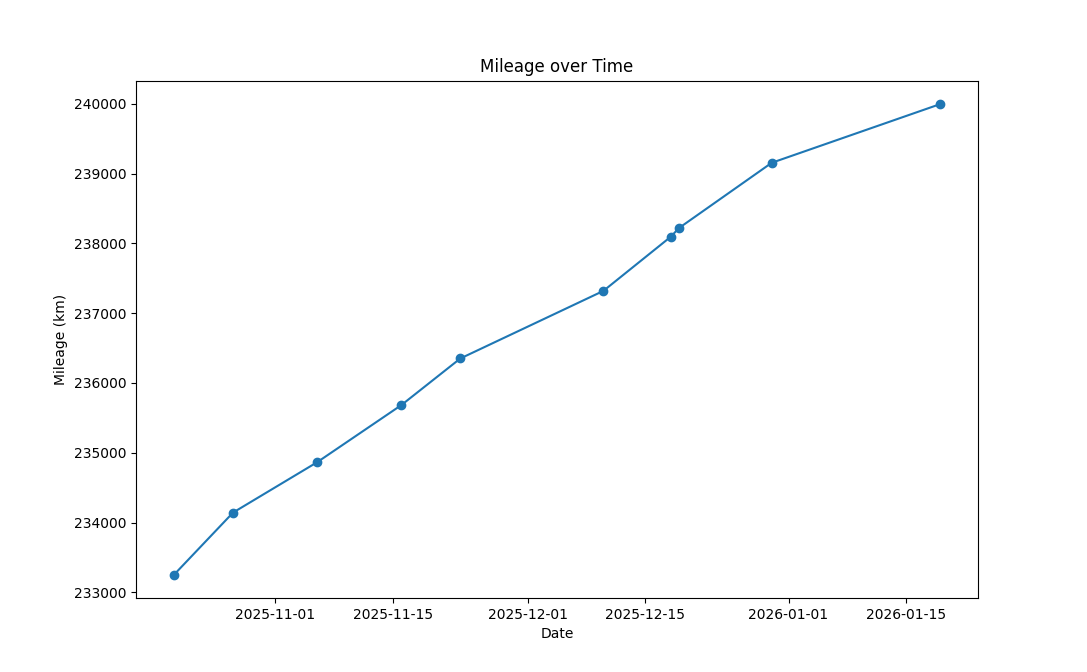
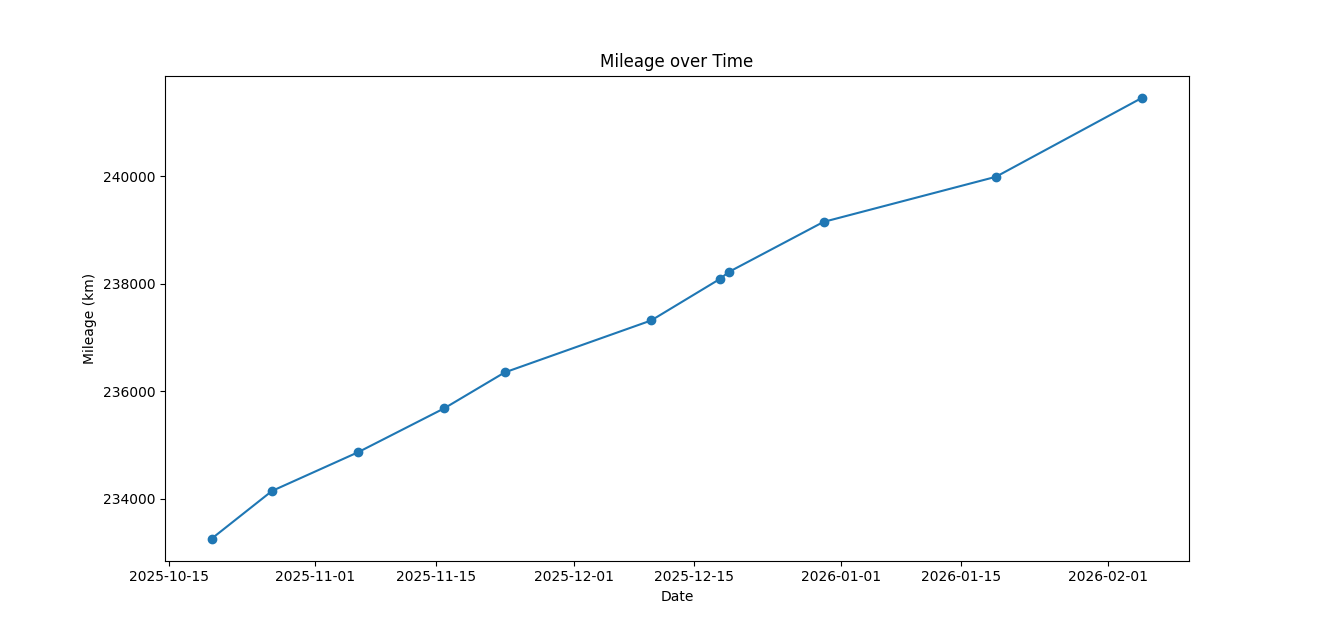
Added new mileage to graph

diff --git a/mileage_graph_generator.py b/mileage_graph_generator.py
@@ -13,11 +13,12 @@ dates = [
     "18/12/2025",
     "19/12/2025",
     "30/12/2025",
-    "19/1/2026"
+    "19/1/2026",
+    "5/2/2026"
 ]
 
 # Corresponding values
-values = [233256, 234144, 234866, 235684, 236351, 237319, 238094, 238221, 239154, 239994]
+values = [233256, 234144, 234866, 235684, 236351, 237319, 238094, 238221, 239154, 239994, 241468]
 
 # Convert strings to datetime objects
 dates = [datetime.strptime(d, "%d/%m/%Y") for d in dates]
